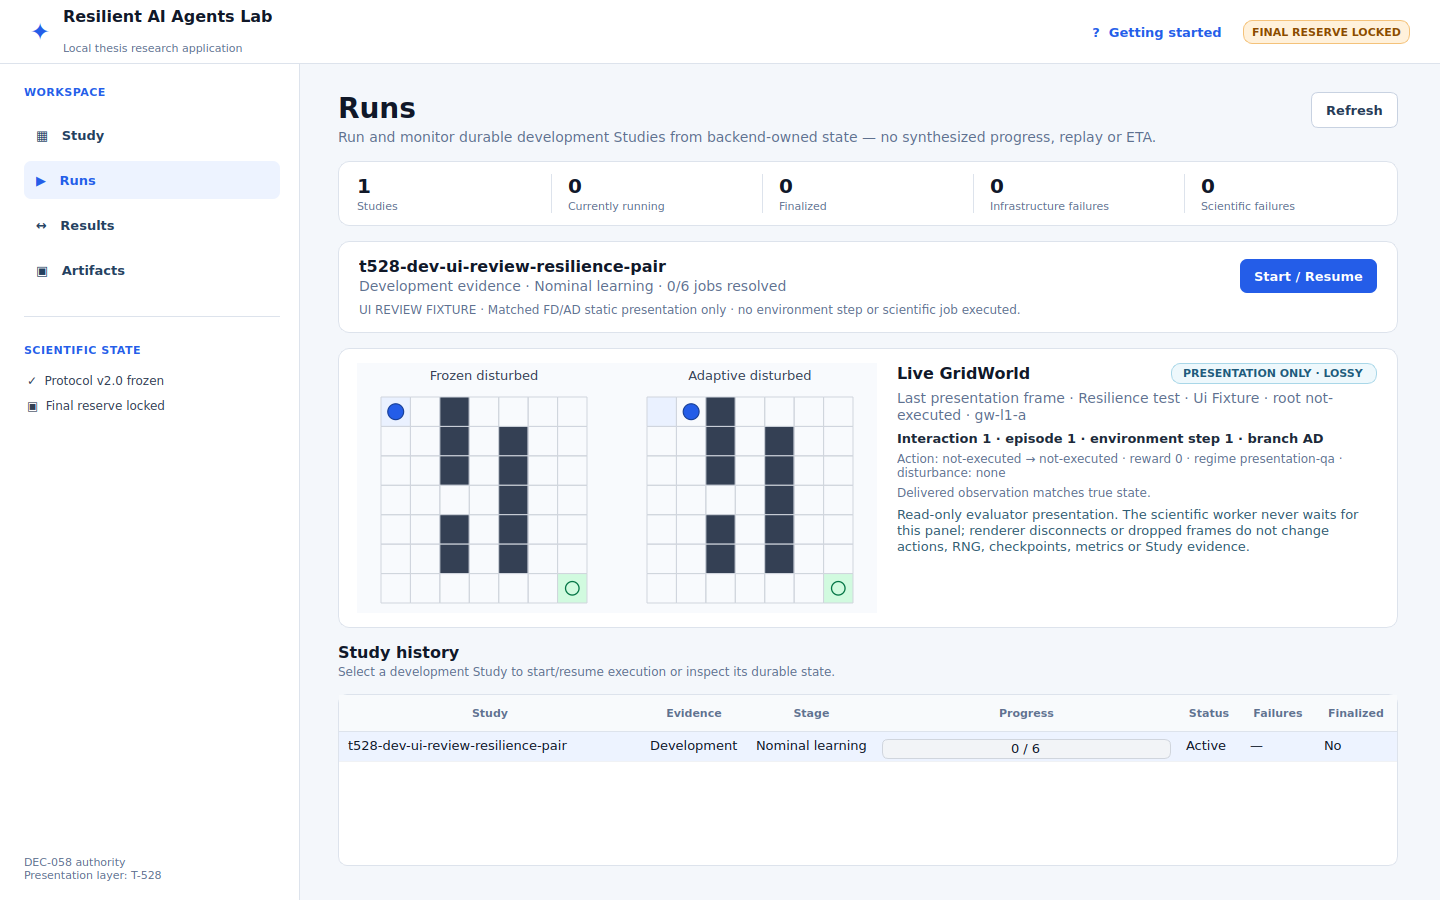
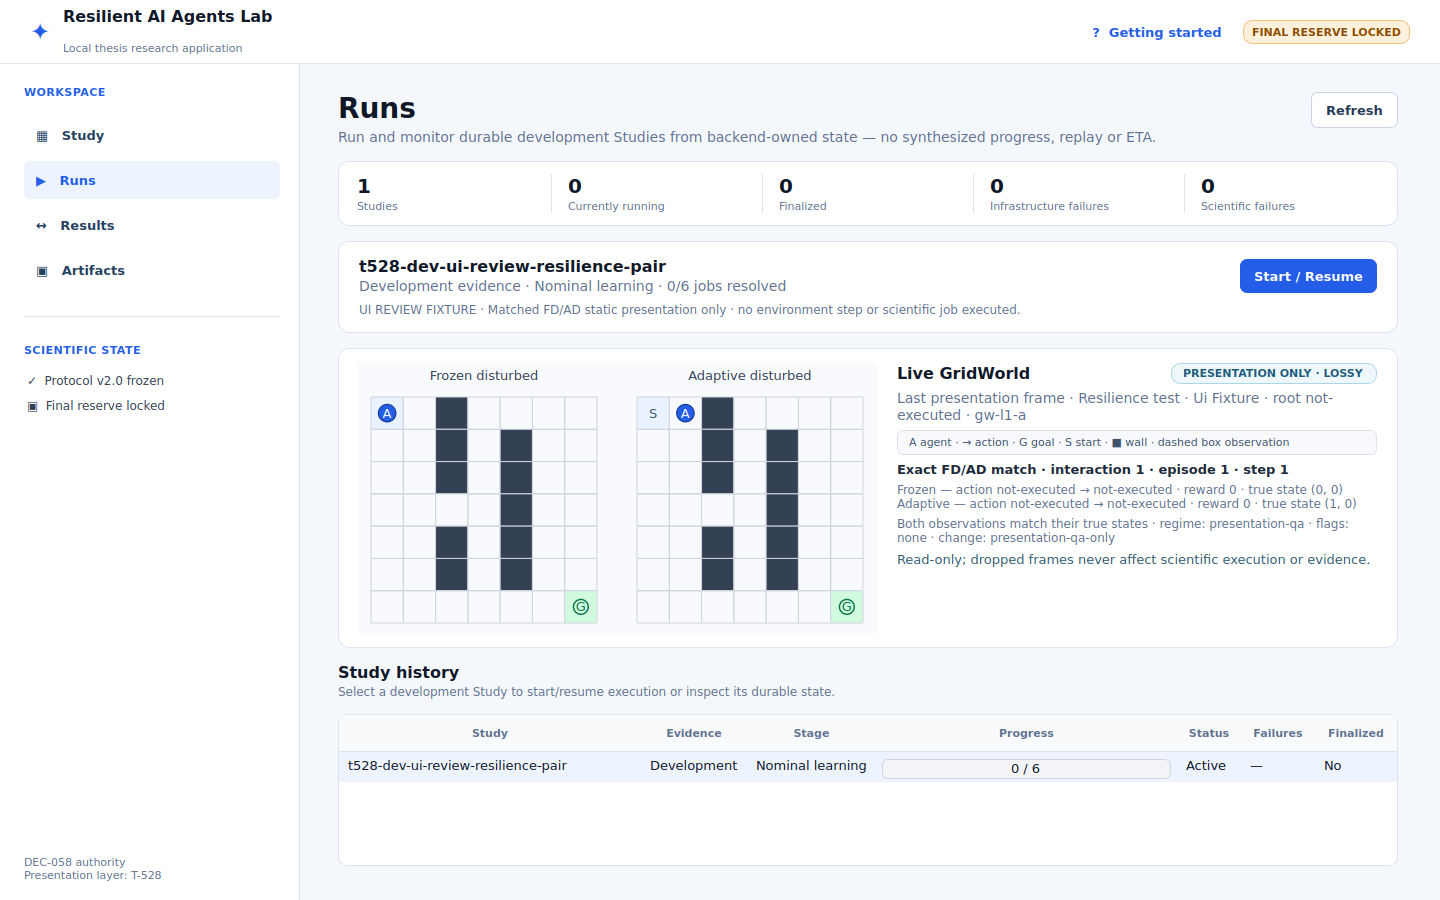
docs(t511): accept application workflow and curate final UI set

Changed region(s): [[0.2188, 0.4356, 0.9688, 0.8711], [0.625, 0.4667, 0.9375, 0.6533]]

diff --git a/docs/context/TASKS.md b/docs/context/TASKS.md
@@ -20,18 +20,18 @@ Status: `[x]` complete; `READY` dependency-valid; `IN_PROGRESS` active; `BLOCKED
 ## Resume state
 
 - **Package:** protocol-v2 methodology/scientific freeze is complete through DEC-058; the framework-neutral Study backend is complete through DEC-051/T-529; the final Python-native application architecture and rebuild are complete through DEC-059/T-528. DEC-042/047 and candidate v1.1 remain auditable predecessor design; historical NiceGUI remains prototype history only.
-- **Project:** **6/8** master milestones objectively complete (#87: 1, 2, 3, 4, 5, 7). Milestone 6 awaits explicit intended-user acceptance; milestone 8 additionally awaits the final v2 evidence chain.
-- **Current task:** `T-511` — Intended-user application workflow/self-explanatory UX acceptance is READY FOR HUMAN ACCEPTANCE and is the next application gate.
+- **Project:** **7/8** master milestones objectively complete (#87: 1, 2, 3, 4, 5, 6, 7). Milestone 8 awaits the final v2 evidence chain.
+- **Current task:** `T-610` — final protocol-v2 execution is BLOCKED pending a separate explicit scientific/final-reserve authorization.
 - **State:** DEC-055 tuning remains immutable valid-complete; DEC-055/056 sizing packages remain immutable valid-failed. DEC-057 sizing-v0.3 and the combined five-method sizing package are valid-complete. DEC-058 accepts the frozen protocol-v2.0 scientific authority with `final_reserve_access=false`. DEC-059 selects PySide6 / Qt 6 Widgets for the final local application. Final-reserve scientific execution remains unauthorized and requires an explicit later T-610+ authority.
 - **Completed Study backend:** `T-529` is COMPLETE. The framework-neutral Study lifecycle covers immutable recipe -> deterministic plan -> real Phase A -> exact checkpoint -> optional common no-learning prefix -> atomic FN/FD/AN/AD -> validation -> root/layout analysis with explicit denominators -> deterministic machine-readable evidence export, with restart-safe provenance and no frontend dependency.
 - **Completed final application:** `T-528` is COMPLETE. PySide6 now provides recipe-first Thesis Study review, separate DEVELOPMENT/Exploratory workflow, durable Study creation, non-blocking local execution supervision, truthful Runs/progress, matched Frozen/Adaptive live GridWorld presentation, stored-evidence Results, registered artifact provenance, accessibility/help/locked/error/empty states and deterministic CI screenshot review artifacts. T-511 review hardening additionally makes both matched branch actions/rewards/states and change context visible, adds redundant GridWorld symbols/direction cues, separates stored adaptation-benefit and Frozen/Adaptive-loss charts, and gives explicit research-use/onboarding guidance. The application does not own or reimplement scientific protocol logic.
-- **Validation:** T-511 review-hardening implementation head (`8e8a863d51584923eb325ee7d11e4e4a2d0cbf83`) had Repository checks, Protocol-v2 pilot checks and PySide6 UI screenshot checks all green. Exact-head screenshot artifact `9788923062` was inspected across the complete workflow at 1366x768, 1440x900 and the 1480x920 reference size; the matched GridWorld detail remained fully visible at the laptop viewport. The bounded DEVELOPMENT application smoke traverses create -> execute -> validate -> analyze -> evidence handoff without final identities. Curated screenshots live under `ui-screenshots/pyside6/`; historical NiceGUI screenshots are segregated under `ui-screenshots/historical-nicegui/`.
-- **Branch / PR:** `feat/pre-wp7-protocol-v1.1-ui-rebuild` / draft, open, unmerged PR #92; no parallel main-repo implementation branch and no early merge.
-- **Trackers:** #87 master 6/8; #95 protocol-v2 10/10 CLOSED; #88 closed/superseded; #89 complete/closed; #93 T-528 complete/closed; #94 DEFERRED post-thesis.
+- **Validation:** T-511 review-hardening implementation head (`8e8a863d51584923eb325ee7d11e4e4a2d0cbf83`) had Repository checks, Protocol-v2 pilot checks and PySide6 UI screenshot checks all green. Exact-head screenshot artifact `9789027919` was inspected across the complete workflow at 1366x768, 1440x900 and the 1480x920 reference size; the matched GridWorld detail remained fully visible at the laptop viewport. The bounded DEVELOPMENT application smoke traverses create -> execute -> validate -> analyze -> evidence handoff without final identities. The final ten-image PySide6 set lives under `ui-screenshots/pyside6/`; superseded NiceGUI PNGs were removed from the active tree and remain recoverable from Git history.
+- **Branch / PR:** PR #92 on `feat/pre-wp7-protocol-v1.1-ui-rebuild` is the T-511-accepted application checkpoint selected for squash merge; no parallel main-repo implementation branch.
+- **Trackers:** #87 master 7/8; #95 protocol-v2 10/10 CLOSED; #88 closed/superseded; #89 complete/closed; #93 T-528 complete/closed; #94 DEFERRED post-thesis.
 - **Historical science:** protocol-v1.0 / FINAL-* / R0 evidence immutable. Candidate v1.1 remains non-final history; old `T-522` must not execute. Historical scientific runners remain reproducible.
 - **Bibliography:** immutable protocol-v2 consumer snapshot remains upstream SHA `f10afcc41e3e1bd877d884cf7a5ae6b5284046f5`, merged through thesis PR #96 and validated on PR #92.
 - **Pre-WP7 approval:** NOT APPROVED; `T-700+` remains blocked.
-- **Exact next action:** perform `T-511 — Intended-user application workflow/self-explanatory UX acceptance` using the accepted PySide6 workflow/screenshots. Do not execute T-610+, do not access the final reserve and do not start WP7 merely because T-528 is complete.
+- **Exact next action:** squash-merge the accepted PR #92 checkpoint, then obtain separate explicit scientific authorization before any T-610 execution. Do not access the final reserve or start WP7 from T-511 acceptance alone.
 
 ## Quota/interruption resilience
 
@@ -116,15 +116,16 @@ GridWorld is the controlled experimental/visualization testbed, not the thesis s
   - Completed presentation-only live event boundary and GridWorld renderer; transient events are dropping/non-blocking and cannot select actions, alter RNG/checkpoints/metrics or become scientific evidence. Matched FD/AD views pair exact interaction indices and visibly retain both branch actions, rewards, true states, observations and change context, with redundant start/goal/agent/action encodings.
   - Completed Results workspace with Compare Learning / Test Resilience views driven by registered stored `analysis-package` summaries and provenance/integrity validation; stored adaptation-benefit and Frozen/Adaptive-loss charts remain distinct, and there is no UI-side recomputation of scientific estimands or composite score.
   - Completed Artifacts provenance drill-down using registered StudyArtifact lineage only; no arbitrary filesystem browsing.
-  - Completed deterministic screenshot CI and curated `ui-screenshots/pyside6/` review set; historical NiceGUI images are segregated under `ui-screenshots/historical-nicegui/`.
+  - Completed deterministic screenshot CI and the final curated ten-image `ui-screenshots/pyside6/` review set; superseded NiceGUI PNGs remain available through Git history only.
   - Completed proportional validation: focused desktop/backend tests, bounded DEVELOPMENT end-to-end application smoke, repository checks, Protocol-v2 checks and PySide6 screenshot checks. T-511 review-hardening head `8e8a863d51584923eb325ee7d11e4e4a2d0cbf83` had all three principal PR gates green; exact-head artifact `9788923062` was visually inspected at all required viewport classes.
   - Final reserve remained sealed throughout T-528; no final roots/layouts were executed and no final-reserve scientific outcome was generated, inspected or used.
 
-- [ ] READY `T-511` — **Intended-user application workflow/self-explanatory UX acceptance.**
+- [x] `T-511` — **Intended-user application workflow/self-explanatory UX acceptance.**
   - Depends on: `T-512`, `T-528` — satisfied.
-  - State: `T-511 — Intended-user application workflow/self-explanatory UX acceptance is READY FOR HUMAN ACCEPTANCE.`
-  - Acceptance: user explicitly accepts final v2 thesis-study/custom configure/run/monitor/history/compare/export/error/help workflow. Automated checks never close this gate.
-  - Review surface: accepted PySide6 application plus `ui-screenshots/pyside6/` and CI screenshot bundle.
+  - Accepted: 2026-09-01, after the user explicitly delegated final intended-user acceptance based on the completed UI/research-workflow audit and verified screenshot/live-presentation requirements.
+  - Scope: final v2 thesis-study/custom configure/run/monitor/history/compare/export/error/help workflow. This accepts the application workflow only; it does not authorize final-reserve execution or accept future scientific results.
+  - Capture boundary: the application is screenshot-ready and exposes truthful live GridWorld for external GIF/video capture; it does not claim an integrated GIF exporter. Real thesis/defense captures require later `ASSET-*` provenance records and static fallbacks.
+  - Review surface: accepted PySide6 application plus the final `ui-screenshots/pyside6/` set and exact-head CI screenshot bundle.
 
 ## WP6 — Final scientific evidence
 
@@ -136,6 +137,7 @@ GridWorld is the controlled experimental/visualization testbed, not the thesis s
 
 - [ ] BLOCKED `T-610` — Execute frozen protocol-v2 final matrix through the accepted study-first execution path.
   - Depends on: `T-527`, `T-529`, `T-511`.
+  - State: task dependencies are satisfied, but `final_reserve_access=false` remains sealed until a separate explicit scientific execution authorization.
 - [ ] BLOCKED `T-611` — Validate/freeze v2 final evidence.
   - Depends on: `T-610`.
 - [ ] BLOCKED `T-612` — Predeclared v2 nominal-learning/resilience statistical analysis and sensitivity diagnostics.

diff --git a/docs/context/CURRENT_STATUS.md b/docs/context/CURRENT_STATUS.md
@@ -15,10 +15,10 @@
 - **`T-528 — Final Application / Frontend Rebuild` is COMPLETE under DEC-059.** The final application is Python-native PySide6 / Qt 6 Widgets over the framework-neutral Study backend; NiceGUI remains historical prototype only.
 - T-528 implements the recipe-first Thesis Study review path, clearly separated DEVELOPMENT/Exploratory Study flow, durable Study creation, non-blocking worker/supervisor execution, truthful Runs progress, matched Frozen/Adaptive live GridWorld presentation, stored-evidence Results (Compare Learning / Test Resilience), registered-artifact provenance, accessibility/help/empty/error/locked states and deterministic CI screenshot review artifacts. T-511 review hardening exposes both matched branch actions/rewards/states and change context, adds redundant GridWorld symbols/direction cues, separates stored adaptation-benefit and Frozen/Adaptive-loss charts, and adds explicit research-use/onboarding guidance.
 - T-528's bounded DEVELOPMENT application smoke completed the complete create -> execute -> validate -> analyze -> evidence-handoff lifecycle without final identities. T-511 review-hardening implementation head (`8e8a863d51584923eb325ee7d11e4e4a2d0cbf83`) had Repository checks, Protocol-v2 checks and PySide6 UI screenshot checks all green; exact-head screenshot artifact `9788923062` was visually inspected at 1366x768, 1440x900 and 1480x920.
-- The curated `ui-screenshots/pyside6/` review set is current from the inspected T-511 acceptance-preparation artifact; `ui-screenshots/historical-nicegui/` is historical-only. CI remains the authoritative full screenshot bundle, including complete 1366x768 / 1440x900 / 1480x920 renders and historical side-by-side references.
-- **`T-511 — Intended-user application workflow/self-explanatory UX acceptance is READY FOR HUMAN ACCEPTANCE.`** It requires explicit user acceptance; automated checks cannot close it.
-- Master tracker #87 is now **6/8** objectively complete: milestones 1, 2, 3, 4, 5 and 7. Milestone 6 awaits T-511 human acceptance; milestone 8 additionally depends on the final v2 evidence chain.
-- PR #92 remains OPEN, DRAFT and UNMERGED.
+- The final curated `ui-screenshots/pyside6/` set contains ten current PySide6 review images from the inspected artifact, including separate adaptation-benefit and Frozen/Adaptive-loss views. Superseded NiceGUI PNGs were removed from the active tree and remain recoverable from Git history. CI retains the authoritative complete 1366x768 / 1440x900 / 1480x920 bundle.
+- **`T-511 — Intended-user application workflow/self-explanatory UX acceptance` is COMPLETE.** On 2026-09-01 the user explicitly delegated acceptance based on the completed UI/research-workflow audit and verified screenshot/live-presentation requirements. This does not authorize final-reserve execution or accept future scientific results.
+- Master tracker #87 is now **7/8** objectively complete: milestones 1 through 7. Milestone 8 depends on the final v2 evidence chain.
+- PR #92 is the accepted application checkpoint selected for squash merge.
 - **Pre-WP7 approval: NOT APPROVED.** No `T-700+` execution.
 
 ## Completed Study-first backend
@@ -77,11 +77,11 @@ Canonical bibliography remains `MariosGiannakaras/ThesisBibliography`, immutable
 ## Still intentionally unfrozen
 
 - Final-reserve execution remains sealed: `final_reserve_access=false`.
-- `T-511 — Intended-user application workflow/self-explanatory UX acceptance` requires explicit user acceptance.
-- `T-610+` remains blocked until its dependencies and explicit scientific authorization are satisfied.
+- T-511 application workflow acceptance is complete; later real screenshot/GIF/video captures still require `ASSET-*` provenance records and static fallbacks.
+- `T-610+` remains blocked by the separate explicit scientific authorization while `final_reserve_access=false`.
 - WP7 remains blocked by the mandatory explicit pre-WP7 user-approval gate.
 - Final Windows standalone packaging remains deferred to `T-803` / issue #94.
 
 ## Exact next action
 
-Perform `T-511 — Intended-user application workflow/self-explanatory UX acceptance` using the accepted PySide6 screenshots/application workflow. Do not execute T-610+, do not access the final reserve and do not start WP7 merely because T-528 is complete.
+Squash-merge the accepted PR #92 checkpoint. Then obtain separate explicit scientific authorization before T-610; do not access the final reserve or start WP7 from application acceptance alone.

diff --git a/README.md b/README.md
@@ -81,23 +81,29 @@ Historical protocol-v1.0 / v1.1 scientific code and finalized evidence remain au
 
 The superseded NiceGUI application, v1.1 application runtime service, old native/package validation surface and UI-only tests were removed from the **active tree** during DEC-051/T-529 reconstruction. Git history remains the audit trail.
 
-The final frontend is intentionally absent. T-528 will select a framework **different from NiceGUI** and rebuild the application from scratch only after the remaining scientific contract (T-527) and study-first backend (T-529) are stable.
+The accepted final frontend is a native PySide6 / Qt 6 Widgets application under
+`src/resilient_agents/desktop/`. It consumes the Study backend directly and does
+not reimplement scientific protocol logic. The superseded NiceGUI frontend remains
+available through Git history only.
+
+From PowerShell on the validated Windows thesis machine, restore the locked runtime,
+install the exact-pinned application overlay, and launch from source with:
+
+```powershell
+& "$env:USERPROFILE\.local\bin\uv.exe" sync --locked --group gridworld-prototype --group protocol-v2-pilot --no-progress
+& "$env:USERPROFILE\.local\bin\uv.exe" pip install --python .venv\Scripts\python.exe --requirement requirements\application-ui.txt
+.\.venv\Scripts\python.exe -m resilient_agents.desktop
+```
+
+Standalone Windows packaging remains a later delivery task; the source application
+is the accepted T-511 research workflow.
 
 ## Current scientific gate
 
-T-526 is the next external scientific evidence gate. It uses the predeclared non-final plan:
-
-```text
-configs/protocols/protocol-v2-feasibility-v0.1.json
-```
-
-On the validated physical Windows thesis machine, the committed entrypoint is:
-
-```powershell
-powershell -ExecutionPolicy Bypass -File .\scripts\run_protocol_v2_feasibility_windows.ps1
-```
-
-Hosted CI does not substitute for that physical-machine evidence. T-529 backend reconstruction may continue in parallel but must not invent or consume values that remain T-526/T-527 gated.
+T-511 application workflow acceptance is complete. T-610 final protocol-v2
+execution remains sealed by `final_reserve_access=false` until a separate explicit
+scientific authorization. Historical protocol-v1.0 results remain immutable and
+must not be presented as the not-yet-produced final protocol-v2 evidence.
 
 ## Repository map
 

diff --git a/ui-screenshots/README.md b/ui-screenshots/README.md
@@ -1,9 +1,9 @@
-# UI screenshot review sets
+# Final accepted UI screenshot set
 
-## `pyside6/` — current T-528 application review set
+## `pyside6/`
 
-These images are the accepted visual-review surfaces for the Python/PySide6
-application built by **T-528 — Final Application / Frontend Rebuild**.
+These ten images are the final T-511 accepted visual-review surfaces for the
+Python/PySide6 application built by T-528 and hardened for research presentation.
 
 They are presentation QA, not scientific evidence. In particular:
 
@@ -12,14 +12,10 @@ They are presentation QA, not scientific evidence. In particular:
   it executes zero environment steps and zero scientific jobs.
 - populated Results screenshots use explicitly synthetic in-memory UI fixtures so
   chart/table layout can be inspected; their metric values are not scientific results.
+- the adaptation-benefit and Frozen/Adaptive-loss views are intentionally separate;
 - Artifacts provenance uses presentation-only DEVELOPMENT fixture records.
 
 The GitHub Actions `T-528 PySide6 UI screenshots` artifact is the authoritative
-full QA bundle and also contains 1366x768 laptop sanity renders plus the accepted
-historical visual references used for side-by-side comparison.
-
-## `historical-nicegui/` — historical prototype only
-
-These PNGs preserve the earlier NiceGUI/prototype visual history. They are not the
-current frontend and must not be used to claim current T-528 acceptance. They remain
-as visual references/history only.
+full QA bundle and also contains 1366x768 laptop sanity renders. Superseded NiceGUI
+screenshots were removed from the active tree after T-511 acceptance; Git history
+retains their audit trail.
